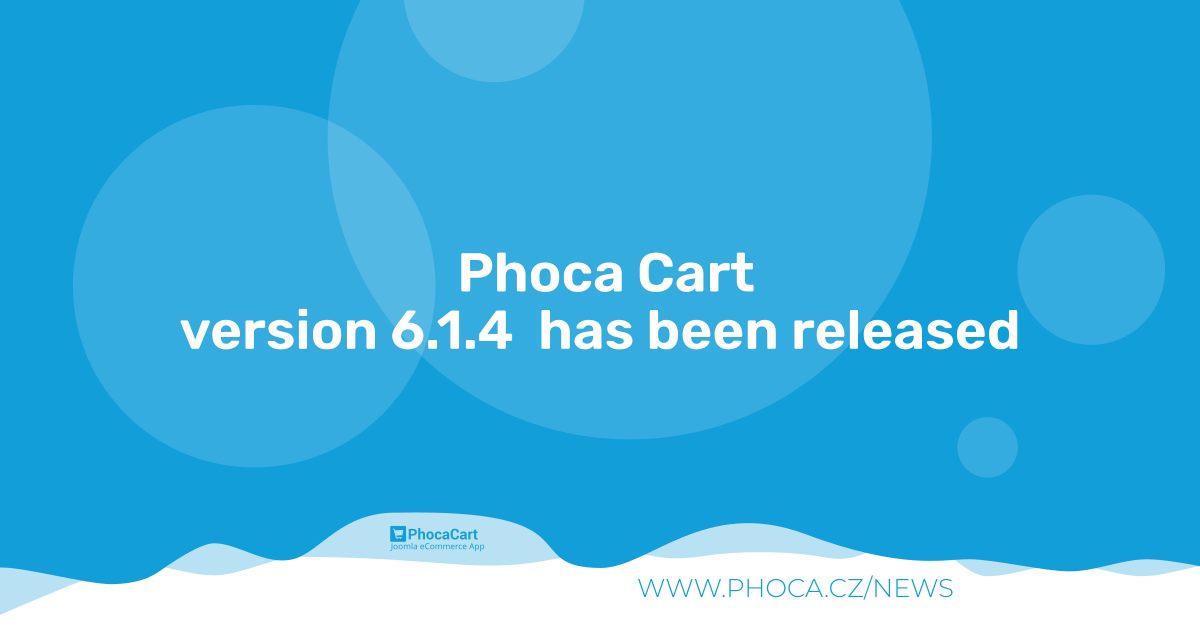
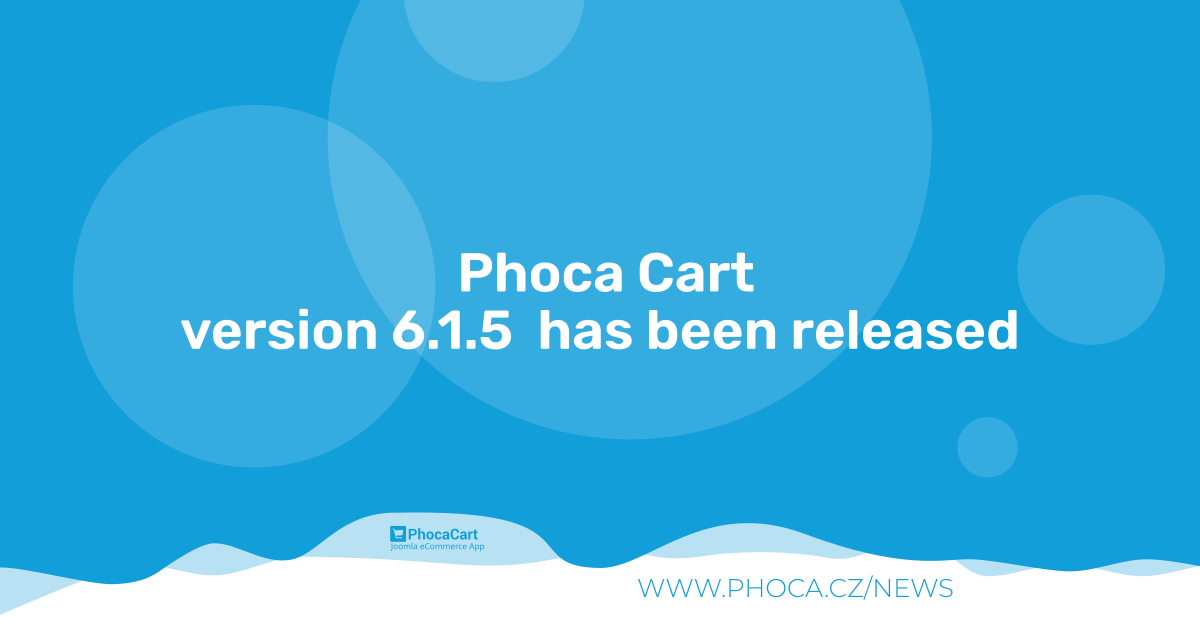
6.1.5

diff --git a/admin/layouts/catalog.php b/admin/layouts/catalog.php
@@ -38,22 +38,12 @@ $document->setTitle(Text::_($p['printed_catalog_document_title']));
 
 
 $s = '<style>';
-/*echo '.ph-catalog-doc {line-height:0.8;}
-.ph-catalog-header {line-height:0.5;}
-.ph-catalog-img {height: auto;width: auto;}
-.ph-catalog-col1 {width: 10%;padding-right:3px;}
-.ph-catalog-col2 {width: 90%;padding-left:3px;}
-.ph-catalog-price {text-align: right;font-weight: bold;}
-.ph-catalog-sep {border-bottom: 1px solid #f0f0f0;}
-.ph-catalog-sep-margin {font-size: 8px;}
-.ph-catalog-ean {line-height:0.1;}
-.ph-catalog-table, .ph-catalog-table-in {width: 100%;}
-.ph-catalog-title {font-weight:bold;font-size:160%;color:blue;line-height:0.8;}
-.ph-catalog-desc-long {font-size: 85%;line-height:1;}
-.ph-catalog-price {line-height: 1;font-size: 90%;text-align:right;}
-.ph-catalog-price-table {width: 200pt;}
-.ph-catalog-price-item {text-align:right; font-weight: bold;}
-.ph-catalog-price-item-txt {text-align:left;}';*/
+$s .= '.ph-catalog-category-header { font-size: 130%; font-weight: bold; border-bottom: 1px solid #000; margin-bottom: 8px; }';
+$s .= '.ph-catalog-item-table { width: 100%; }';
+$s .= '.ph-catalog-title { font-weight: bold; font-size: 110%; }';
+$s .= '.ph-catalog-desc-long, .ph-catalog-desc, .ph-catalog-features { font-size: 85%; }';
+$s .= '.ph-catalog-sku, .ph-catalog-ean { font-size: 80%; }';
+$s .= '.ph-catalog-sep { border-bottom: 1px solid #e0e0e0; margin-top: 5px; margin-bottom: 5px; }';
 $s .= trim(strip_tags($p['printed_catalog_css']));
 $s .= '</style>';
 
@@ -78,42 +68,64 @@ if ($header != '') {
     echo '</div>';
 }
 
-echo '<table class="ph-catalog-table" cellspacing="0" cellpadding="0" >';
-
-
 // ITEMS
+// Order items based on category
+uasort($d['items'], function($a, $b) {
+    $cmp = strcmp($a['category_title'], $b['category_title']);
+    if ($cmp === 0) {
+        // order by product title
+       // $cmp = strcmp($a['title'], $b['title']);
+    }
+    return $cmp;
+});
+
 $previousCatid = 0;
+
+
+
 foreach($d['items'] as $k => $v) {
+
 
 
     // Category Title
     if ($p['printed_catalog_display_category_title'] == 1 && $v['category_title'] != '' && $v['category_id'] != $previousCatid) {
-        echo '<tr nobr="true"><td style="width:100%">';
         echo '<div class="ph-catalog-category-header">'.$v['category_title']. '</div>';
         $previousCatid = $v['category_id'];
-        echo '</td></tr>';
     }
 
 
-    echo '<tr nobr="true"><td style="width:100%">';
-
-
-    echo '<table class="ph-catalog-table-in" cellspacing="0" cellpadding="1">';
-
-
+    echo '<table class="ph-catalog-item-table" width="100%" cellspacing="0" cellpadding="2" border="0" nobr="true">';
     echo '<tr>';
 
 	// 1) COLUMN - Image
-	echo '<td class="ph-catalog-col1">';
+	echo '<td width="20%" valign="top" align="center" class="ph-catalog-col1">';
 	if ($v['image'] != '') {
 
 	    $image 	= PhocacartImage::getThumbnailName($pathItem, $v['image'], 'small');
-	    echo '<img class="ph-catalog-img" src="'. Uri::root(true) . '/' . $image->rel.'" alt="'.PhocacartText::filterValue($v['title'], 'text').'" />';
+
+        if ($d['format'] == 'pdf') {
+
+            $sigAbs = JPATH_ROOT . '/' . ltrim($image->rel, '/');
+
+            if (file_exists($sigAbs)) {
+                $sigSize = @getimagesize($sigAbs);
+                $sigMime = $sigSize['mime'] ?? 'image/png';
+                $sigAttr = $sigSize ? ' ' . $sigSize[3] : '';
+                $base64Sig = 'data:' . $sigMime . ';base64,' . base64_encode(file_get_contents($sigAbs));
+                echo '<img class="ph-catalog-img" src="' . $base64Sig . '"' . $sigAttr . ' alt="'.PhocacartText::filterValue($v['title'], 'text').'" />';
+            } else {
+                echo '&nbsp;';
+            }
+        } else {
+            echo '<img class="ph-catalog-img" src="'. Uri::root(true) . '/' . $image->rel.'" alt="'.PhocacartText::filterValue($v['title'], 'text').'" />';
+        }
+    } else {
+        echo '&nbsp;';
     }
 	echo '</td>';
 
 	// 2) COLUMN - Text
-	echo '<td class="ph-catalog-col2">';
+	echo '<td width="55%" valign="top" class="ph-catalog-col2">';
 	echo '<div class="ph-catalog-title">'. $v['title'].'</div>';
 
 	if ($v['description_long'] != '') {
@@ -124,39 +136,27 @@ foreach($d['items'] as $k => $v) {
 	    echo '<div class="ph-catalog-features">'. $v['features'].'</div>';
     }
 
-
-	echo '<table><tr><td>';
-
 	// 2)1) SUBCLUMN SKU EAN
 	// SKU
 	if ($v['sku'] != '') {
-
-	     echo '<div class="ph-catalog-sku">'.$v['sku'].'</div>';
-
+	     echo '<div class="ph-catalog-sku">SKU: '.$v['sku'].'</div>';
     }
 
 	// EAN
 	if ($v['ean'] != '') {
-
-	    if ($d['format'] == 'pdf') {
-            echo '<div class="ph-catalog-ean">{phocapdfeancode|'.urlencode((int)$v['ean']).'}</div>';
-	    } else {
-	        echo '<div class="ph-catalog-ean">'.(int)$v['ean'].'</div>';
+        if ($d['format'] == 'pdf') {
+            echo '<div class="ph-catalog-ean">{phocapdfeancode|'.$v['ean'].'}</div>';
+        } else {
+             echo '<div class="ph-catalog-ean">EAN: '.$v['ean'].'</div>';
         }
-
     }
 
 	echo '</td>';
 
-	echo '<td>';
-
-    // 2)2) SUBCOLUMN PRICE
+	// 2)2) SUBCOLUMN PRICE
+	echo '<td width="25%" valign="top" align="right" class="ph-catalog-col3">';
     $priceItems	= $price->getPriceItems($v['price'], $v['taxid'], $v['taxrate'], $v['taxcalculationtype'], $v['taxtitle'], $v['unit_amount'], $v['unit_unit'], 1, 1, NULL, $v['taxhide']);
 
-
-	//echo '<div class="ph-catalog-price">'. $price->getPriceFormat($v['price']).'</div>';
-
-    echo '<div class="ph-catalog-price"><br />';
 
     if (!empty($priceItems)) {
 
@@ -171,38 +171,20 @@ foreach($d['items'] as $k => $v) {
         }
 
 
-        echo '<table class="ph-catalog-price-table">';
-
-
-        $displayPriceItems = PhocaCartPrice::displayPriceItems($priceItems, 'catalog');// Display Netto, Tax, Brutto?
+        $displayPriceItems = PhocaCartPrice::displayPriceItems($priceItems, 'catalog');
 
         if ($displayPriceItems['netto'] == 1) {
-        //if ($priceItems['netto'] != 0 && $priceItems['netto'] != $priceItems['brutto']) {
-            echo '<tr><td class="ph-catalog-price-item-txt">' . $priceItems['nettotxt'] . ' </td><td class="ph-catalog-price-item">' . $priceItems['nettoformat'] . '</td></tr>';
-        } else {
-            echo '<tr><td>&nbsp;</td><td>&nbsp;</td></tr>';
+            echo '<span class="ph-catalog-price-item-txt">' . $priceItems['nettotxt'] . '</span> <span class="ph-catalog-price-item">' . $priceItems['nettoformat'] . '</span><br />';
         }
 
         if ($displayPriceItems['tax'] == 1) {
-        //if ($priceItems['tax'] != 0 && $priceItems['netto'] != $priceItems['brutto']) {
-            echo '<tr><td class="ph-catalog-price-item-txt">' . $priceItems['taxtxt'] . ' </td><td class="ph-catalog-price-item">' . $priceItems['taxformat'] . '</td></tr>';
-        } else {
-            echo '<tr><td>&nbsp;</td><td>&nbsp;</td></tr>';
+            echo '<span class="ph-catalog-price-item-txt">' . $priceItems['taxtxt'] . '</span> <span class="ph-catalog-price-item">' . $priceItems['taxformat'] . '</span><br />';
         }
 
         if ($displayPriceItems['brutto'] == 1) {
-        //if ($priceItems['brutto'] != 0) {
-            echo '<tr><td class="ph-catalog-price-item-txt">' . $priceItems['bruttotxt'] . ' </td><td class="ph-catalog-price-item">' . $priceItems['bruttoformat'] . '</td></tr>';
-        } else {
-            echo '<tr><td>&nbsp;</td><td>&nbsp;</td></tr>';
+            echo '<b><span class="ph-catalog-price-item-txt">' . $priceItems['bruttotxt'] . '</span> <span class="ph-catalog-price-item">' . $priceItems['bruttoformat'] . '</span></b>';
         }
-
-        echo '</table>';
     }
-
-    echo '</div>';
-
-    echo '</td></tr></table>';
 
 
 	echo '</td>';
@@ -212,21 +194,13 @@ foreach($d['items'] as $k => $v) {
 
 
 	echo '<div class="ph-catalog-sep"></div>';
-	echo '<div class="ph-catalog-sep-margin">&nbsp;</div>';
-	echo '</td></tr>';
 
 }
 
 
-echo '</table>';
-
 echo '</div>';// end doc
-
-echo '<p>&nbsp;</p>';
 
 
 if ($d['format'] == 'raw') {
     echo '</body></html>';
 }
-
-

diff --git a/README.MD b/README.MD
@@ -105,7 +105,7 @@ If you need additional information beyond this GitHub repository, further docume
 ### Version (Joomla! 5.x - no longer supported)
 5.2.3
 ### Version (Joomla! 6.x)
-6.1.4
+6.1.5
 
 ### License
 
